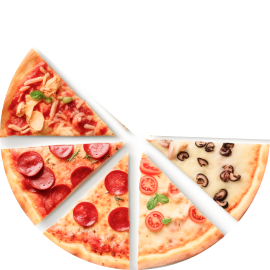
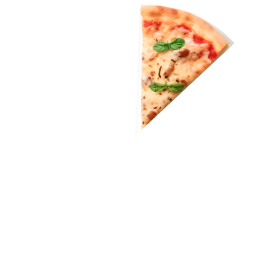
Added loader animattion

diff --git a/lib/screens/components/pizza_loader.dart b/lib/screens/components/pizza_loader.dart
@@ -13,31 +13,22 @@ class PizzaLoader extends StatefulWidget {
 class _PizzaLoaderState extends State<PizzaLoader> {
   Timer? timer;
   int activeIndex = 0;
+  int previousIndex = 0;
   bool isAdding = true;
 
   @override
   void initState() {
     super.initState();
-    timer = Timer.periodic(const Duration(seconds: 1), (tick) {
+    timer = Timer.periodic(const Duration(milliseconds: 200), (tick) {
       setState(() {
-        if (activeIndex > 8) {
+        if (activeIndex >= 7) {
+          previousIndex = activeIndex;
           activeIndex = 0;
         } else {
+          previousIndex = activeIndex;
           activeIndex += 1;
         }
-        // if (isAdding) {
-        //   activeIndex++;
-        //   if (activeIndex >= 8) {
-        //     isAdding = false;
-        //   }
-        // } else {
-        //   activeIndex--;
-        //   if (activeIndex <= 0) {
-        //     isAdding = true;
-        //   }
-        // }
       });
-      print(activeIndex);
     });
   }
 
@@ -49,37 +40,16 @@ class _PizzaLoaderState extends State<PizzaLoader> {
 
   @override
   Widget build(BuildContext context) {
-    return Container(
-      child: Stack(
-        children: [
-          Image.asset(
-            "assets/images/loader_${7}.png",
-            width: 250,
-            height: 250,
-            fit: BoxFit.contain,
+    return Stack(
+      children: List.generate(8, (index) {
+        return AnimatedOpacity(
+          duration: const Duration(milliseconds: 200),
+          opacity: index <= activeIndex ? 1 : 0,
+          child: Image.asset(
+            "assets/images/loader_${index}.png",
           ),
-          Container(
-            child: CustomPaint(
-              size: Size(250, 250),
-              painter: Ellipse43Painter(index: 8),
-            ),
-          )
-        ],
-      ),
+        );
+      }),
     );
-
-    // return Container(
-    //   child: Stack(
-    //     children: List.generate(8, (index) {
-    //       return AnimatedOpacity(
-    //         duration: Duration(milliseconds: 200),
-    //         opacity: activeIndex == index ? 1 : 0,
-    //         child: Image.asset(
-    //           "assets/images/loader_${index}.png",
-    //         ),
-    //       );
-    //     }),
-    //   ),
-    // );
   }
 }

diff --git a/lib/screens/splash_screen.dart b/lib/screens/splash_screen.dart
@@ -1,4 +1,5 @@
 import 'package:flutter/material.dart';
+import 'package:flutter/widgets.dart';
 import 'package:flutter_openui/screens/components/pizza_loader.dart';
 import 'package:flutter_openui/screens/home_screen.dart';
 import 'package:flutter_openui/screens/routes/router.dart';
@@ -11,19 +12,30 @@ class SplashScreen extends StatefulWidget {
 }
 
 class _SplashScreenState extends State<SplashScreen> {
+  bool visible = true;
   @override
   void initState() {
-    Future.delayed(const Duration(seconds: 20), () {
-      // AppRouter.navigate(context, const HomeScreen());
+    Future.delayed(const Duration(seconds: 5), () async {
+      setState(() => visible = false);
+      await Future.delayed(Duration(milliseconds: 300));
+      AppRouter.navigate(context, const HomeScreen());
     });
     super.initState();
   }
 
   @override
   Widget build(BuildContext context) {
-    return const Scaffold(
+    return Scaffold(
       body: Center(
-        child: PizzaLoader(),
+        child: AnimatedOpacity(
+          duration: Duration(milliseconds: 500),
+          opacity: 1,
+          child: AnimatedScale(
+            scale: visible ? 1 : 0.5,
+            child: PizzaLoader(),
+            duration: Duration(milliseconds: 500),
+          ),
+        ),
       ),
     );
   }
